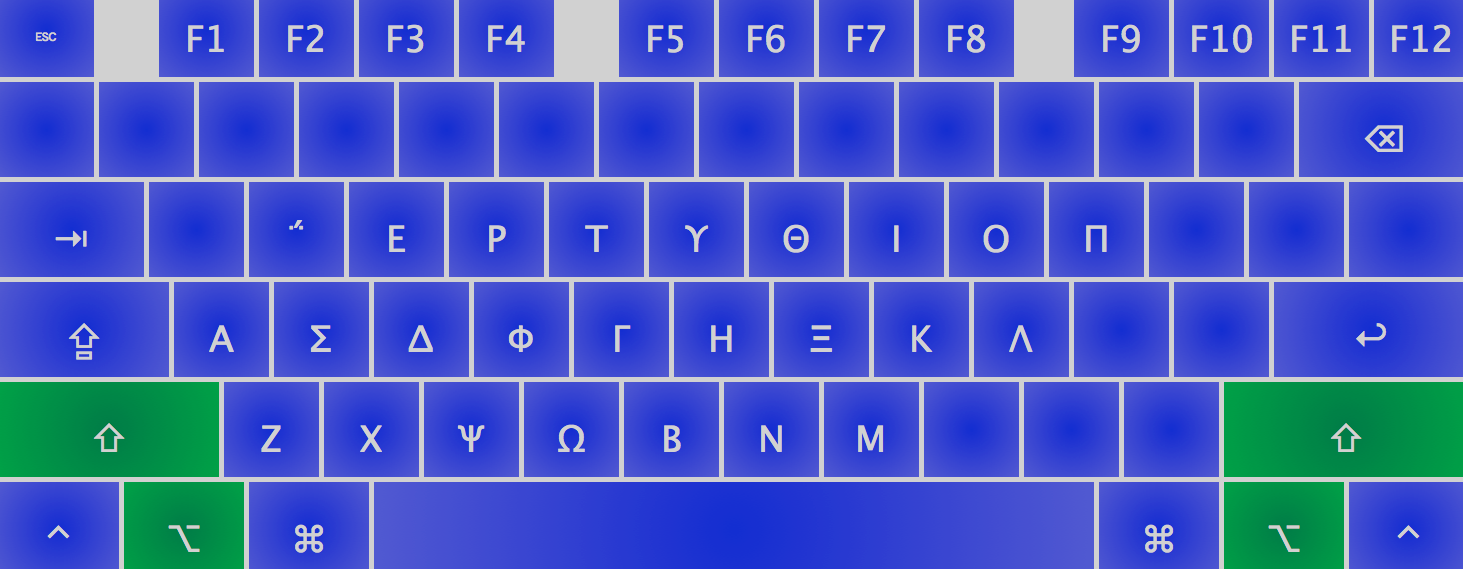
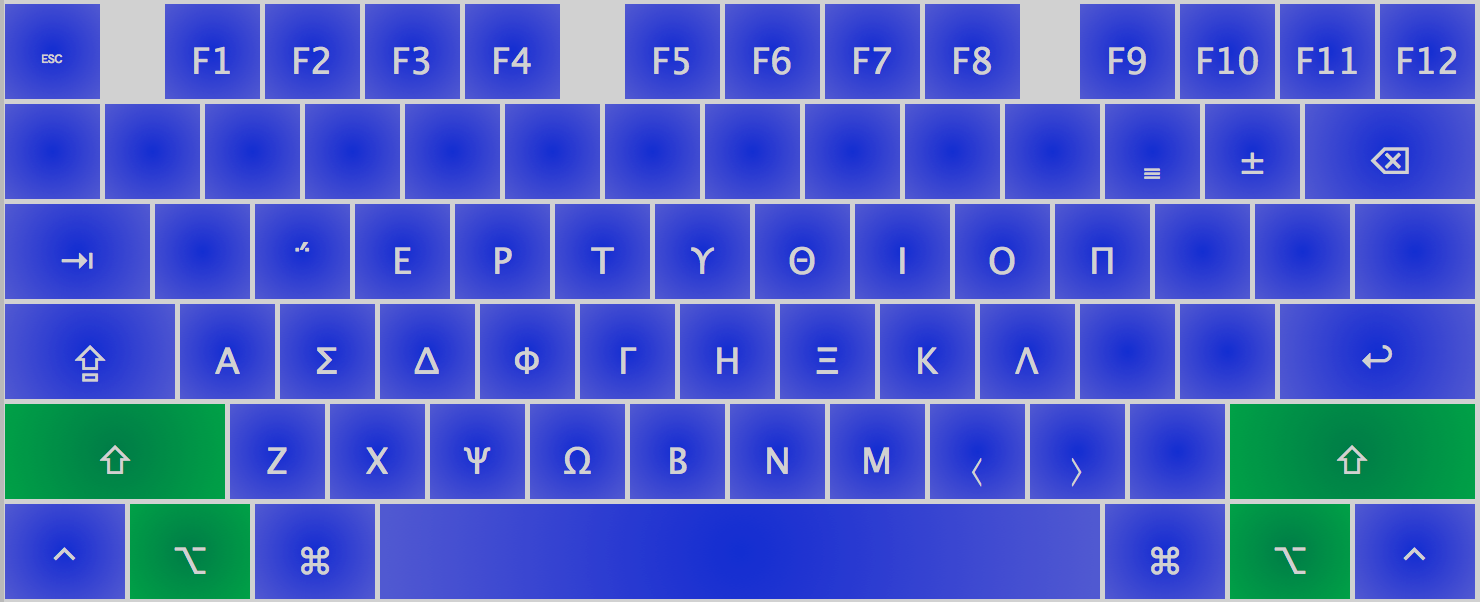
added math symbols

diff --git a/README.md b/README.md
@@ -1,4 +1,5 @@
-# US English keyboard layout with Greek letters for Mac
+# US English Math keyboard layout for Mac <https://github.com/ksint/MacMathKeyboardLayout>
+## by Kyaw Sint <ksint@ksint.com>
 
 ## With no modifers
 
@@ -16,7 +17,8 @@
 
 1. Copy to ~/Library/Keyboard Layouts
 2. System Preferences -> Keyboard -> Input Sources
-3. Click the + button and under Others, select US English with Greek letters
+3. Click the + button and under Others, select US English with Math
 4. Select show input menu in menu bar
-5. Click on input menu and choose US English with Greek letters
+5. Click on input menu and choose US English with Math
 
+6. Use with Unixode <https://github.com/olivierverdier/Unixode> or Wolfram Alpha <http://www.wolframalpha.com/>
